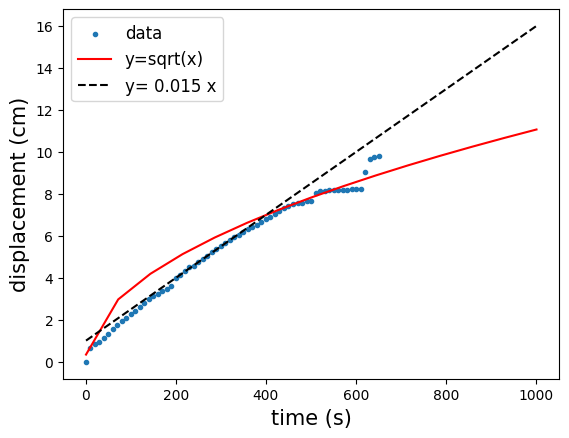
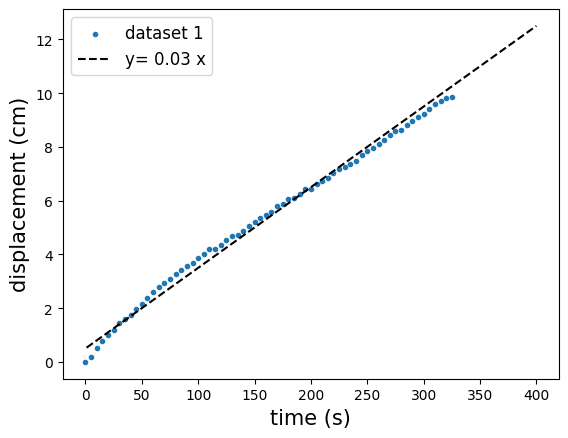
sinking with liquid

diff --git a/data_tommaso/sinking_with_liquid/plot_displacement.py b/data_tommaso/sinking_with_liquid/plot_displacement.py
@@ -10,15 +10,14 @@ ax = plt.gca()
 time = []
 displacement = []
 
-#file_name = f'/home/tommaso/Projects/rheodata/creep_rising/2024-06-25.mqa'
-file_name = '/home/tommaso/Projects/rheodata/sinking_with_liquid/sinking_with_liquid_3bis.dat'
+file_name = '/home/tommaso/Projects/creep_rising_sinking/data_tommaso/sinking_with_liquid/sinking_with_liquid_2bis.dat'
 
 data = open(file_name, 'r') #, encoding="utf-16"
 lines = data.readlines()
 
 #lines.pop(0)
 
-for count in range(66):
+for count in range(85):
     obs = lines[count].split()
     #time.append((float(obs[1])))
     displacement.append((float(obs[0])))
@@ -27,21 +26,21 @@ y_offset = displacement[0]
 
 pix_to_cm = 4/733
 displacement = [(i - y_offset)*pix_to_cm for i in displacement]
-interval = 10
+interval = 5
 time = [n*interval for n in range(len(displacement))]
 
-ax.scatter(time, displacement, marker='.', linewidths=1, label=f'data')
+ax.scatter(time, displacement, marker='.', linewidths=1, label=f'dataset 2')
 
 #ax.set_xscale('log')
 #ax.set_yscale('log')
 
 #p = np.polyfit(time[9000:70000], displacement[9000:70000], 1)
 
-xlin1 = np.linspace(1, 800, 10^5)
-ylin1 = 0.015*xlin1 + 0.5
+xlin1 = np.linspace(1, 400, 10^5)
+ylin1 = 0.03*xlin1 + 0.5
 ylin2 = 0.35*np.sqrt(xlin1)
-plt.plot(xlin1, ylin2, c='red', label=f'y=sqrt(x)')
-plt.plot(xlin1, ylin1, c='black', linestyle='dashed', label=f'y= 0.015 x')
+#plt.plot(xlin1, ylin2, c='red', label=f'y=sqrt(x)')
+plt.plot(xlin1, ylin1, c='black', linestyle='dashed', label=f'y= 0.03 x')
 
 
 #x1 = np.linspace(0,10**3,10**6)
@@ -51,4 +50,4 @@ ax.set_xlabel('time (s)', fontsize = 15.0)
 ax.set_ylabel('displacement (cm)', fontsize = 15.0)
 ax.legend(loc='upper left', fontsize=12.0)            
 plt.show()
-fig.savefig(f'sinking_with_liquid/sinking_1bis.png', format='png', bbox_inches='tight')          
+fig.savefig(f'/home/tommaso/Projects/creep_rising_sinking/data_tommaso/sinking_with_liquid/sinking_2.png', format='png', bbox_inches='tight')          
